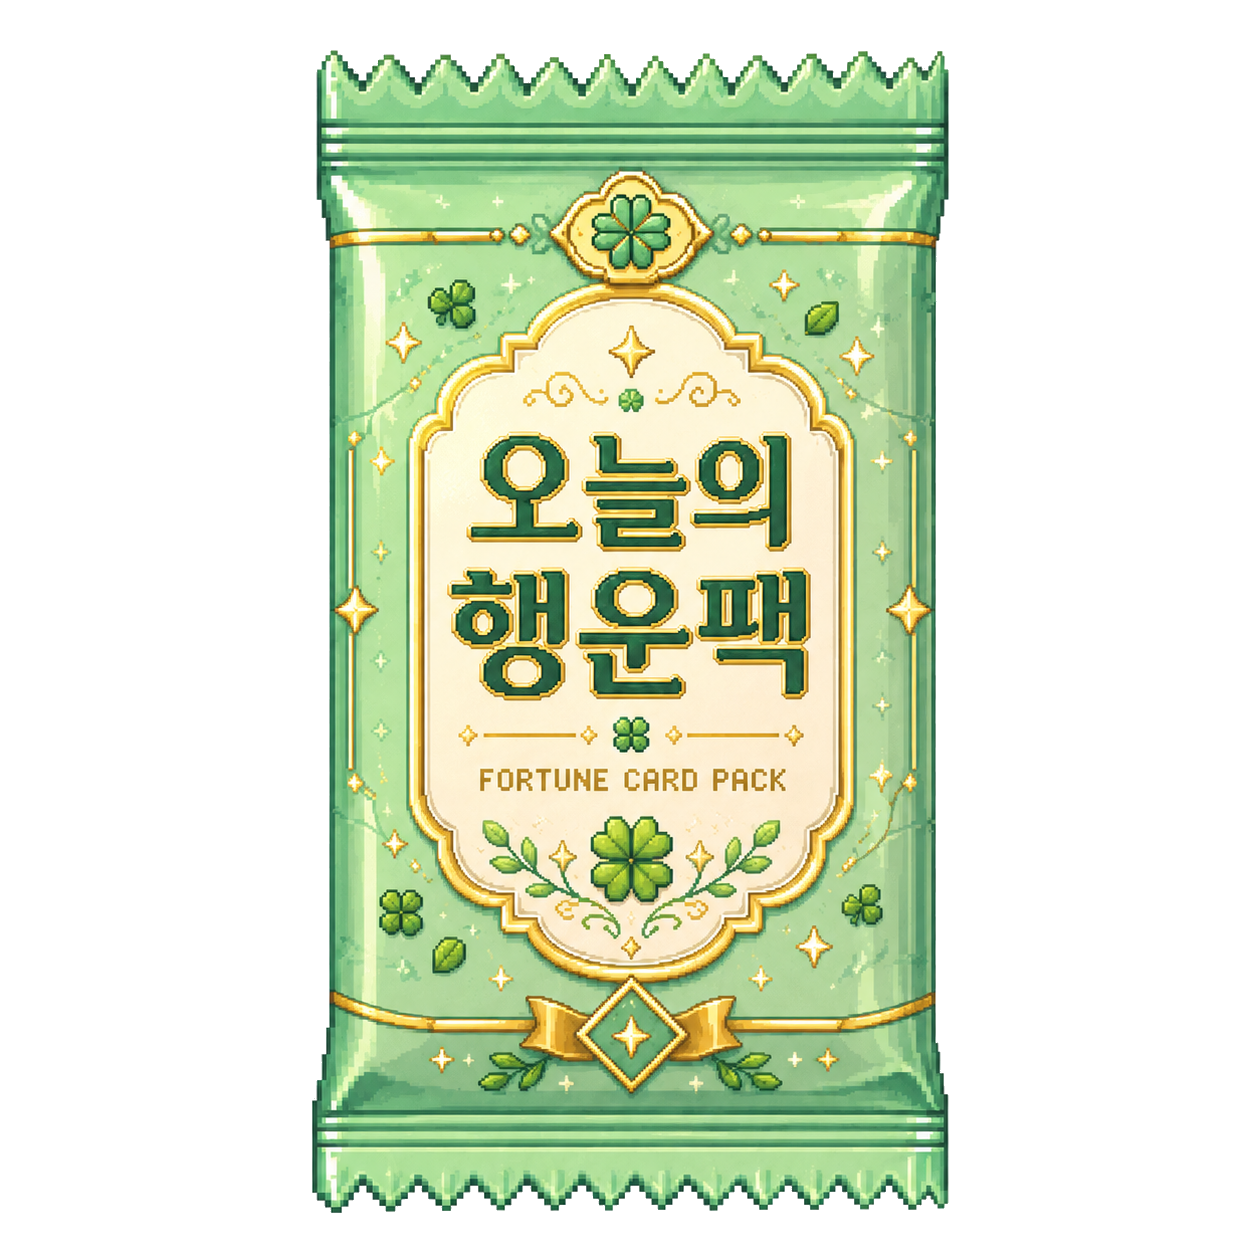
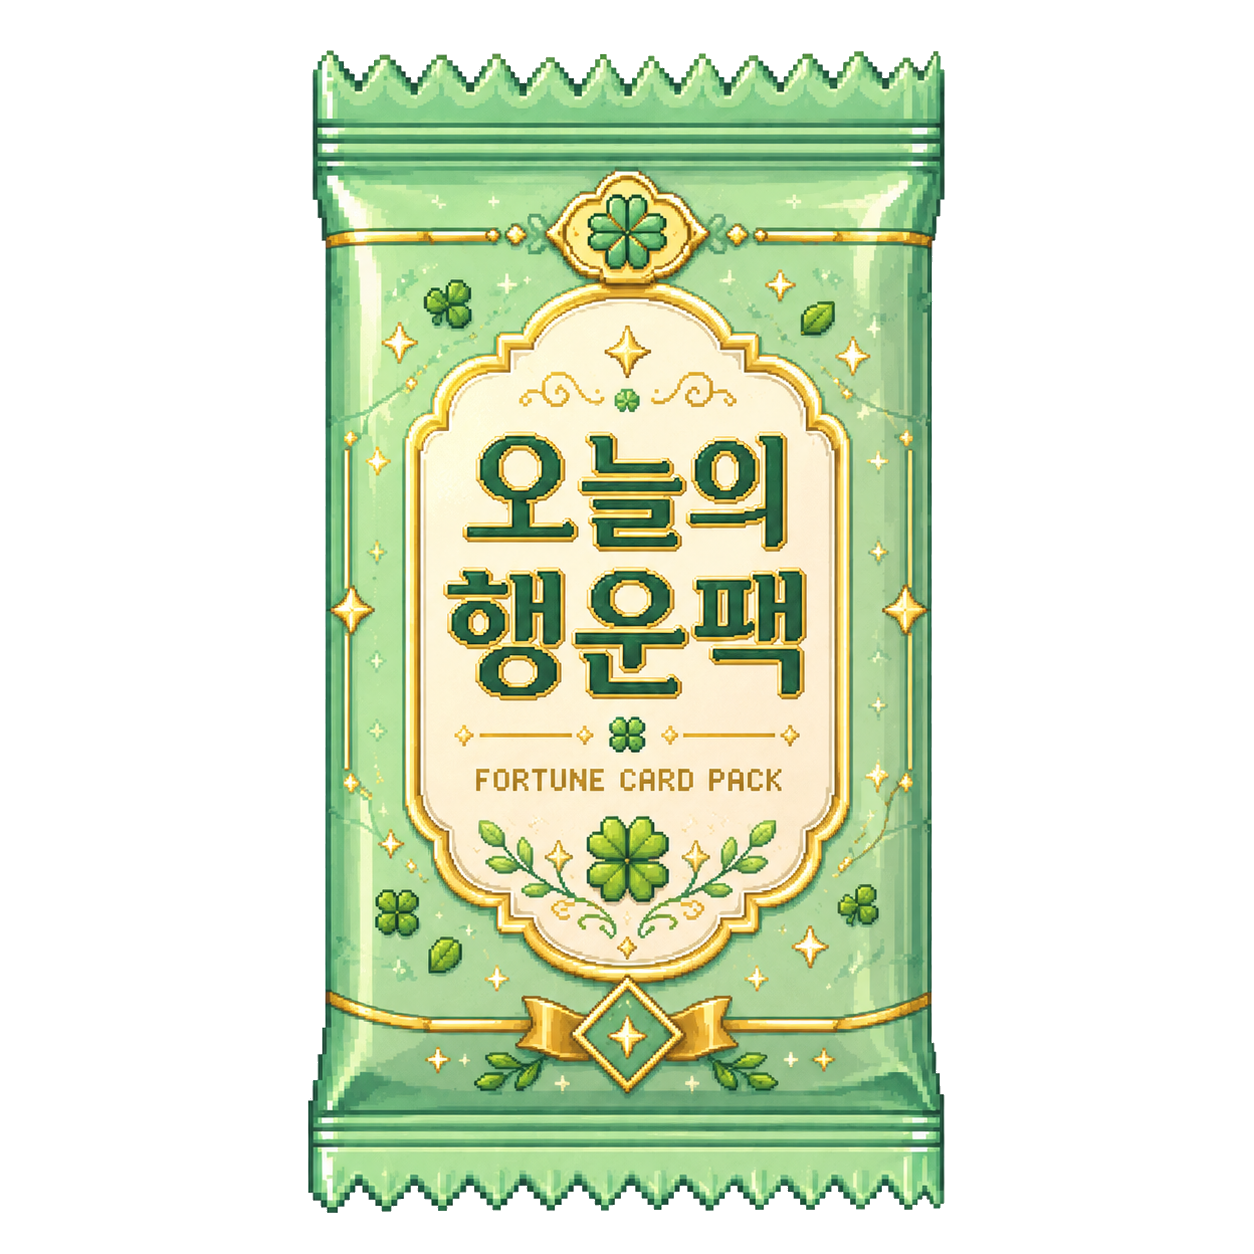
fix(ui): 모바일 카드 오프닝 레이아웃 정리
- 모바일 해상도에서 카드팩, 카드 뒷면, 카드 앞면의 반응형 크기 규칙을 통일함
- 카드 앞면과 뒷면의 프레임 기준점을 중앙으로 맞춰 크기와 위치가 어긋나지 않게 수정함
- 오픈카드 뒤 글로우와 노란 배경 광원도 카드 축척에 맞춰 함께 조정함
- 카드팩 PNG의 좌우 여백을 재정렬하고 렌더링 중심을 보정함
- 모바일에서 카드와 하단 안내 문구 사이의 과한 여백을 줄여 화면 밀도를 개선함

Changed region(s): [[0.2177, 0.0311, 0.7775, 0.9641]]

diff --git a/src/components/FortuneCard.tsx b/src/components/FortuneCard.tsx
@@ -80,58 +80,60 @@ export function FortuneCard({ card, collectionItem, obtained = true }: FortuneCa
   const luckyTimes = obtained ? card.luckyTimes : ["?", "?", "?"];
 
   return (
-    <article
-      className="relative mx-auto h-[552px] w-[340px] max-w-full overflow-hidden rounded-[22px] border-4 border-[#3b247a] bg-[#fff7df] p-5 text-[#2a2038] shadow-[0_14px_0_rgba(15,12,31,0.26),inset_0_0_0_4px_#f6dfaa]"
-      aria-label={`${card.name} fortune card`}
-    >
-      <CardDecor />
+    <div className="relative mx-auto h-[552px] w-[340px] max-w-full max-[420px]:h-[519px] max-[420px]:w-[320px] max-[380px]:h-[486px] max-[380px]:w-[300px] max-[360px]:h-[454px] max-[360px]:w-[280px]">
+      <article
+        className="absolute left-1/2 top-0 h-[552px] w-[340px] -translate-x-1/2 origin-top overflow-hidden rounded-[22px] border-4 border-[#3b247a] bg-[#fff7df] p-5 text-[#2a2038] shadow-[0_14px_0_rgba(15,12,31,0.26),inset_0_0_0_4px_#f6dfaa] max-[420px]:scale-[0.941] max-[380px]:scale-[0.882] max-[360px]:scale-[0.8235]"
+        aria-label={`${card.name} fortune card`}
+      >
+        <CardDecor />
 
-      <div className="relative z-10 grid h-full grid-rows-[30px_88px_188px_62px_56px_38px] gap-2">
-        <header className="flex items-start justify-between gap-3">
-          <div className="rounded-[6px] border-2 border-[#efdfbd] bg-white/75 px-2 py-1 text-xs font-black leading-none tracking-wide shadow-[2px_2px_0_rgba(47,31,63,0.1)]">
-            No.{String(card.no).padStart(3, "0")}
-          </div>
-          <RarityBadge rarity={card.rarity} />
-        </header>
+        <div className="relative z-10 grid h-full grid-rows-[30px_88px_188px_62px_56px_38px] gap-2">
+          <header className="flex items-start justify-between gap-3">
+            <div className="rounded-[6px] border-2 border-[#efdfbd] bg-white/75 px-2 py-1 text-xs font-black leading-none tracking-wide shadow-[2px_2px_0_rgba(47,31,63,0.1)]">
+              No.{String(card.no).padStart(3, "0")}
+            </div>
+            <RarityBadge rarity={card.rarity} />
+          </header>
 
-        <section className="rounded-[12px] border-2 border-[#d8b46a] bg-[#fff9e8] px-3 py-2 text-center shadow-[inset_0_0_0_1px_rgba(255,255,255,0.86),0_3px_0_rgba(143,90,62,0.14)]">
-          <p className="mx-auto inline-block rounded-[999px] border border-[#d8b46a] bg-[#fff7df] px-3 py-0.5 text-[10px] font-black leading-none text-[#6d4aff]">
-            ✦ 오늘의 행운카드 ✦
-          </p>
-          <h2 className="mt-1.5 text-[21px] font-black leading-none tracking-normal">{card.name}</h2>
-          <p className="mt-1 truncate text-[11px] font-extrabold leading-none text-[#5f536f]">{card.role}</p>
-        </section>
+          <section className="rounded-[12px] border-2 border-[#d8b46a] bg-[#fff9e8] px-3 py-2 text-center shadow-[inset_0_0_0_1px_rgba(255,255,255,0.86),0_3px_0_rgba(143,90,62,0.14)]">
+            <p className="mx-auto inline-block rounded-[999px] border border-[#d8b46a] bg-[#fff7df] px-3 py-0.5 text-[10px] font-black leading-none text-[#6d4aff]">
+              ✦ 오늘의 행운카드 ✦
+            </p>
+            <h2 className="mt-1.5 text-[21px] font-black leading-none tracking-normal">{card.name}</h2>
+            <p className="mt-1 truncate text-[11px] font-extrabold leading-none text-[#5f536f]">{card.role}</p>
+          </section>
 
-        <PixelImageFrame
-          backgroundImage={card.backgroundImage}
-          characterImage={card.image}
-          placeholderEmoji={card.placeholderEmoji}
-          alt={card.name}
-          obtained={obtained}
-        />
+          <PixelImageFrame
+            backgroundImage={card.backgroundImage}
+            characterImage={card.image}
+            placeholderEmoji={card.placeholderEmoji}
+            alt={card.name}
+            obtained={obtained}
+          />
 
-        <section className="grid place-items-center rounded-[12px] border border-[#d8b46a] bg-[#fff9e8] px-4 py-2 text-center shadow-[inset_0_0_0_1px_rgba(255,255,255,0.78),0_3px_0_rgba(217,155,114,0.14)]">
-          <p className="line-clamp-2 text-[13px] font-black leading-[1.45] text-[#2a2038]">
-            <span className="mr-1 text-[#7557bf]">“</span>
-            {message}
-            <span className="ml-1 text-[#7557bf]">”</span>
-          </p>
-        </section>
+          <section className="grid place-items-center rounded-[12px] border border-[#d8b46a] bg-[#fff9e8] px-4 py-2 text-center shadow-[inset_0_0_0_1px_rgba(255,255,255,0.78),0_3px_0_rgba(217,155,114,0.14)]">
+            <p className="line-clamp-2 text-[13px] font-black leading-[1.45] text-[#2a2038]">
+              <span className="mr-1 text-[#7557bf]">“</span>
+              {message}
+              <span className="ml-1 text-[#7557bf]">”</span>
+            </p>
+          </section>
 
-        <section className="grid grid-cols-3 gap-2">
-          <InfoTile label="행운 아이템" value={luckyItems[0]} />
-          <InfoTile label="행운 컬러" value={luckyColors[0]} />
-          <InfoTile label="행운 시간" value={luckyTimes[0]} />
-        </section>
+          <section className="grid grid-cols-3 gap-2">
+            <InfoTile label="행운 아이템" value={luckyItems[0]} />
+            <InfoTile label="행운 컬러" value={luckyColors[0]} />
+            <InfoTile label="행운 시간" value={luckyTimes[0]} />
+          </section>
 
-        {obtained ? (
-          <IntimacyFooter level={level} count={count} />
-        ) : (
-          <footer className="grid h-[38px] place-items-center overflow-hidden rounded-[8px] border border-[#d8b46a] bg-[#fff9e8] px-2.5 py-1 text-center text-[10px] font-black text-[#6a4a3c] shadow-[inset_0_0_0_1px_rgba(255,255,255,0.68)]">
-            행운팩에서 만나면 자세한 기록이 열려요.
-          </footer>
-        )}
-      </div>
-    </article>
+          {obtained ? (
+            <IntimacyFooter level={level} count={count} />
+          ) : (
+            <footer className="grid h-[38px] place-items-center overflow-hidden rounded-[8px] border border-[#d8b46a] bg-[#fff9e8] px-2.5 py-1 text-center text-[10px] font-black text-[#6a4a3c] shadow-[inset_0_0_0_1px_rgba(255,255,255,0.68)]">
+              행운팩에서 만나면 자세한 기록이 열려요.
+            </footer>
+          )}
+        </div>
+      </article>
+    </div>
   );
 }

diff --git a/src/components/PackOpening.tsx b/src/components/PackOpening.tsx
@@ -295,28 +295,28 @@ function TodayScreen({
   const cardScale = stage === "tear" ? 0.9 : 1;
   const isPackStage = stage === "idle" || stage === "shake" || stage === "tear";
   const openLabel = alreadyDrewToday ? "오늘 카드 보기" : isRevealed ? "결과 다시 보기" : "오늘의 팩 열기";
-  const helperSpacingClass = isPackStage ? "mt-3" : "mt-5";
-  const noticeSpacingClass = isPackStage ? "mt-1" : "mt-2";
+  const helperSpacingClass = isPackStage ? "mt-2 max-[420px]:mt-1" : "mt-3 max-[420px]:mt-1.5";
+  const noticeSpacingClass = isPackStage ? "mt-1 max-[420px]:mt-0.5" : "mt-1.5 max-[420px]:mt-1";
 
   return (
     <ContentPanel>
       <div className="mx-auto w-full max-w-[560px]">
-        <div className="relative mx-auto h-[620px] max-w-[560px] overflow-visible">
+        <div className="relative mx-auto h-[620px] max-w-[560px] overflow-visible max-[420px]:h-[582px] max-[380px]:h-[548px] max-[360px]:h-[514px]">
           <motion.div
-            className="pointer-events-none absolute left-1/2 top-24 h-[430px] w-[560px] -translate-x-1/2"
+            className="pointer-events-none absolute left-1/2 top-24 h-[430px] w-[560px] -translate-x-1/2 max-[420px]:top-[98px] max-[420px]:h-[404px] max-[420px]:w-[526px] max-[380px]:top-[91px] max-[380px]:h-[378px] max-[380px]:w-[492px] max-[360px]:top-[84px] max-[360px]:h-[352px] max-[360px]:w-[458px]"
             animate={
               packOpened
                 ? { opacity: [0, 1, 0.84], scale: [0.7, 1.15, 1] }
                 : { opacity: 0, scale: 0.8 }
             }
             transition={{ duration: 0.55 }}
-          >
-            <div
-              className={`absolute inset-0 rounded-full ${effect.burst} blur-2xl`}
-              style={{ boxShadow: effect.glow }}
-            />
-              <div className="absolute left-1/2 top-4 h-[390px] w-24 -translate-x-1/2 bg-[#fff7df]/70 blur-xl" />
-          </motion.div>
+            >
+              <div
+                className={`absolute inset-0 rounded-full ${effect.burst} blur-2xl`}
+                style={{ boxShadow: effect.glow }}
+              />
+              <div className="absolute left-1/2 top-4 h-[390px] w-24 -translate-x-1/2 bg-[#fff7df]/70 blur-xl max-[420px]:h-[366px] max-[420px]:w-[88px] max-[380px]:h-[344px] max-[380px]:w-[82px] max-[360px]:h-[321px] max-[360px]:w-[76px]" />
+            </motion.div>
 
           {isSecret && (
             <motion.div
@@ -349,12 +349,12 @@ function TodayScreen({
 
           {shouldRenderCard && (
             <div
-              className={`absolute left-1/2 top-16 h-[552px] w-[340px] -translate-x-1/2 [perspective:1200px] ${
+              className={`absolute left-1/2 top-16 h-[552px] w-[340px] max-w-full -translate-x-1/2 [perspective:1200px] max-[420px]:h-[519px] max-[420px]:w-[320px] max-[380px]:h-[486px] max-[380px]:w-[300px] max-[360px]:h-[454px] max-[360px]:w-[280px] ${
                 cardFlipped ? "z-40" : "z-10"
               }`}
             >
               <motion.div
-                className="h-full w-full cursor-grab select-none touch-none active:cursor-grabbing"
+                className="absolute left-1/2 top-0 h-[552px] w-[340px] -translate-x-1/2 origin-top cursor-grab select-none touch-none active:cursor-grabbing max-[420px]:scale-[0.941] max-[380px]:scale-[0.882] max-[360px]:scale-[0.8235]"
                 initial={false}
                 animate={{
                   y: cardY,
@@ -610,7 +610,7 @@ export function PackOpening() {
                 storage={storage}
                 onSelect={setSelectedCard}
               />
-              <aside className={surfaceClass}>
+              <aside className="grid gap-4 xl:sticky xl:top-5 xl:self-start">
                 {selectedHistory ? (
                   <div className="space-y-4">
                     <FortuneCard
@@ -618,7 +618,7 @@ export function PackOpening() {
                       collectionItem={selectedHistoryCollectionItem}
                       obtained
                     />
-                    <div className="rounded-[14px] border-2 border-[#5a3f87] bg-[#1d1734]/82 p-4 text-[#fff9e8]">
+                    <div className={`${surfaceClass} text-[#fff9e8]`}>
                       <p className="font-modern-en text-xs font-semibold uppercase tracking-[0.12em] text-[#f6c85f]">
                         {selectedHistory.date}
                       </p>
@@ -636,14 +636,18 @@ export function PackOpening() {
                     </div>
                   </div>
                 ) : (
-                  <p className="text-sm font-medium leading-7 text-[#ddd3ee]">
-                    아직 기록된 카드가 없습니다. 오늘 카드를 열면 여기에 뽑기 기록이 쌓입니다.
-                  </p>
+                  <div className={surfaceClass}>
+                    <p className="text-sm font-medium leading-7 text-[#ddd3ee]">
+                      아직 기록된 카드가 없습니다. 오늘 카드를 열면 여기에 뽑기 기록이 쌓입니다.
+                    </p>
+                  </div>
                 )}
-              <p className="hidden text-sm font-medium leading-7 text-[#ddd3ee]">
-                기록에서 카드를 선택하면 도감 상세 화면으로 이동합니다. 오늘 화면은 카드팩 오픈 연출만 보여주도록 분리했습니다.
-              </p>
-            </aside>
+                <div className={surfaceClass}>
+                  <p className="text-sm font-medium leading-7 text-[#ddd3ee]">
+                    기록 리스트에서 카드를 선택하면 해당 날짜의 메시지와 행운 정보를 오른쪽에서 다시 볼 수 있어요.
+                  </p>
+                </div>
+              </aside>
             </div>
           </ContentPanel>
         )}

diff --git a/src/components/CardBack.tsx b/src/components/CardBack.tsx
@@ -6,20 +6,30 @@ type CardBackProps = {
 
 const cardBackImage = "/assets/cards/card-back.png?v=20260514";
 
+const cardFrameClass =
+  "relative mx-auto h-[552px] w-[340px] max-w-full max-[420px]:h-[519px] max-[420px]:w-[320px] max-[380px]:h-[486px] max-[380px]:w-[300px] max-[360px]:h-[454px] max-[360px]:w-[280px]";
+
+const cardScaleClass =
+  "absolute left-1/2 top-0 h-[552px] w-[340px] -translate-x-1/2 origin-top overflow-hidden rounded-[22px] border-4 border-[#2f1f3f] bg-[#160f2f] shadow-[0_14px_0_rgba(0,0,0,0.24),inset_0_0_0_4px_rgba(255,255,255,0.12)] max-[420px]:scale-[0.941] max-[380px]:scale-[0.882] max-[360px]:scale-[0.8235]";
+
 export function CardBack({ visible }: CardBackProps) {
   return (
     <motion.div
       aria-hidden={!visible}
-      className="absolute inset-0 overflow-hidden rounded-[22px] border-4 border-[#2f1f3f] bg-[#160f2f] shadow-[0_14px_0_rgba(0,0,0,0.24),inset_0_0_0_4px_rgba(255,255,255,0.12)] [backface-visibility:hidden]"
+      className="absolute inset-0 rounded-[22px] [backface-visibility:hidden]"
       animate={{ rotateY: visible ? 0 : 180 }}
       transition={{ duration: 0.55, ease: [0.22, 1, 0.36, 1] }}
     >
-      <img
-        src={cardBackImage}
-        alt="카드 뒷면"
-        className="h-full w-full object-cover [image-rendering:auto]"
-        draggable={false}
-      />
+      <div className={cardFrameClass}>
+        <div className={cardScaleClass}>
+          <img
+            src={cardBackImage}
+            alt="카드 뒷면"
+            className="h-full w-full object-cover [image-rendering:auto]"
+            draggable={false}
+          />
+        </div>
+      </div>
     </motion.div>
   );
 }

diff --git a/src/components/CardFront.tsx b/src/components/CardFront.tsx
@@ -11,16 +11,26 @@ type CardFrontProps = {
 
 export function CardFront({ card, rarity, visible }: CardFrontProps) {
   const effect = rarityEffects[rarity];
+  const cardFrameClass =
+    "relative mx-auto h-[552px] w-[340px] max-w-full max-[420px]:h-[519px] max-[420px]:w-[320px] max-[380px]:h-[486px] max-[380px]:w-[300px] max-[360px]:h-[454px] max-[360px]:w-[280px]";
+  const cardScaleClass =
+    "absolute left-1/2 top-0 h-[552px] w-[340px] -translate-x-1/2 origin-top rounded-[22px] max-[420px]:scale-[0.941] max-[380px]:scale-[0.882] max-[360px]:scale-[0.8235]";
 
   return (
     <motion.div
-      className="absolute inset-0 overflow-hidden rounded-[22px] [backface-visibility:hidden]"
+      className="absolute inset-0 rounded-[22px] [backface-visibility:hidden]"
       animate={{ rotateY: visible ? 0 : -180 }}
       transition={{ duration: 0.55, ease: [0.22, 1, 0.36, 1] }}
-      style={{ boxShadow: visible ? effect.glow : undefined }}
     >
       {card ? (
-        <FortuneCard card={card} obtained />
+        <>
+          <div aria-hidden="true" className="pointer-events-none absolute inset-0">
+            <div className={cardFrameClass}>
+              <div className={cardScaleClass} style={{ boxShadow: visible ? effect.glow : undefined }} />
+            </div>
+          </div>
+          <FortuneCard card={card} obtained />
+        </>
       ) : (
         <div
           className="grid h-full w-full place-items-center rounded-[22px] border-4 border-[#2a2038] text-sm font-black text-[#2a2038]"

diff --git a/src/components/LuckyCardPack.tsx b/src/components/LuckyCardPack.tsx
@@ -31,11 +31,11 @@ export function LuckyCardPack({
   return (
     <motion.button
       type="button"
-      className="absolute left-1/2 top-8 z-20 h-[552px] w-[340px] origin-center cursor-pointer appearance-none border-0 bg-transparent p-0 text-left outline-none transition [webkit-tap-highlight-color:transparent] focus-visible:ring-4 focus-visible:ring-[#f6c85f]/70 disabled:cursor-default"
+      className="absolute left-1/2 top-8 z-20 h-[552px] w-[340px] max-w-full -translate-x-1/2 origin-center cursor-pointer appearance-none border-0 bg-transparent p-0 text-left outline-none transition [webkit-tap-highlight-color:transparent] focus-visible:ring-4 focus-visible:ring-[#f6c85f]/70 disabled:cursor-default max-[420px]:h-[519px] max-[420px]:w-[320px] max-[380px]:h-[486px] max-[380px]:w-[300px] max-[360px]:h-[454px] max-[360px]:w-[280px]"
       animate={
         isShaking
-          ? { x: [-170, -184, -154, -178, -170], rotate: [0, -5, 5, -2, 0] }
-          : { x: -170, rotate: 0 }
+          ? { x: [0, -14, 16, -8, 0], rotate: [0, -5, 5, -2, 0] }
+          : { x: 0, rotate: 0 }
       }
       whileHover={disabled ? undefined : { y: -6, scale: 1.02 }}
       whileTap={disabled ? undefined : { y: 0, scale: 0.98 }}
@@ -45,7 +45,7 @@ export function LuckyCardPack({
       aria-label={label}
     >
       <motion.div
-        className="origin-top"
+        className="absolute left-1/2 top-0 h-[552px] w-[340px] -translate-x-1/2 origin-top max-[420px]:scale-[0.941] max-[380px]:scale-[0.882] max-[360px]:scale-[0.8235]"
         animate={isOpen ? { y: -18, scaleY: 0.92, opacity: 0.82 } : { y: 0, scaleY: 1, opacity: 1 }}
         transition={{ duration: 0.44, ease: [0.22, 1, 0.36, 1] }}
       >

diff --git a/src/components/CardPack.tsx b/src/components/CardPack.tsx
@@ -30,7 +30,7 @@ export function CardPack({
   packImage,
 }: CardPackProps) {
   const style = variantStyles[variant];
-  const packImageSrc = packImage ? `${packImage}?v=transparent-20260514` : "";
+  const packImageSrc = packImage ? `${packImage}?v=pack-center-20260519` : "";
 
   if (packImage) {
     return (
@@ -41,7 +41,7 @@ export function CardPack({
         <img
           src={packImageSrc}
           alt={`${title} 카드팩`}
-          className="absolute left-1/2 top-0 h-full w-[552px] max-w-none -translate-x-1/2 object-contain drop-shadow-[0_16px_0_rgba(0,0,0,0.28)] [image-rendering:auto]"
+          className="absolute left-1/2 top-0 h-full w-[728px] max-w-none -translate-x-1/2 object-contain drop-shadow-[0_16px_0_rgba(0,0,0,0.28)] [image-rendering:auto] max-[420px]:w-[700px] max-[380px]:w-[672px] max-[360px]:w-[644px]"
         />
       </article>
     );